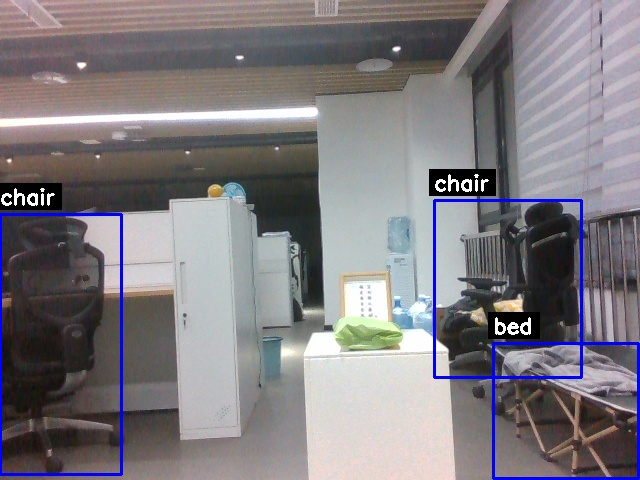
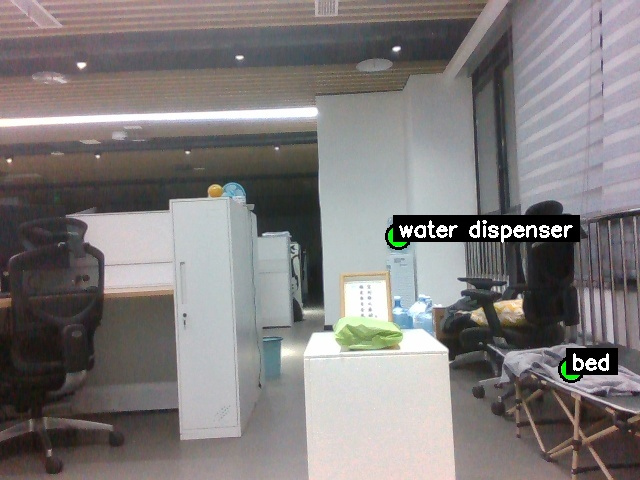
v0.3 自然语言控制指令解析

Changed region(s): [[0.5938, 0.3438, 1.0, 1.0], [0.0, 0.375, 0.2188, 1.0]]

diff --git a/lib/vlm.py b/lib/vlm.py
@@ -20,7 +20,7 @@ class ImageObjectDetector:
             model_id: 使用的模型ID
             api_key: API密钥
             base_url: API基础URL
-            detection_type: 检测类型，"point"或"box"，默认为"point"
+            detection_type: 检测类型，"point"、"box"、"flypoint"或"flybox"，默认为"point"
         """
         self.model_id = model_id
         self.detection_type = detection_type
@@ -46,11 +46,11 @@ class ImageObjectDetector:
     
     def create_prompt(self, objects_to_detect, prompt_type="point"):
         """
-        创建检测提示词
+        创建检测提示词prompt
         
         Args:
-            objects_to_detect: 要检测的对象列表
-            prompt_type: 提示词类型，"point"或"box"
+            objects_to_detect: 要检测的对象列表或控制指令
+            prompt_type: 提示词类型，"point"、"box"、"flypoint"或"flybox"
             
         Returns:
             格式化的提示词
@@ -63,7 +63,7 @@ class ImageObjectDetector:
               "label": <label1>}}, ...]. The points are in [y, x] format
               normalized to 0-1000.
             """
-        else:  # prompt_type == "box"
+        elif prompt_type == "box":
             return f"""
           Return bounding boxes as a JSON array with labels. Never return masks
           or code fencing. Limit to these objects: {objects_to_detect}. Include as many objects as you
@@ -74,15 +74,51 @@ class ImageObjectDetector:
           "label": <label for the object>}}] normalized to 0-1000. The values in
           box_2d must only be integers
           """
+        elif prompt_type == "flypoint":
+            return f"""
+              Analyze the drone control instruction: '{objects_to_detect}'
+              
+              1. Extract the target object mentioned in the instruction
+              2. Identify the specific object in the image if there are multiple similar objects
+                 (based on description like "on the left", "larger", etc.)
+              3. Point to the center of the target object in the image
+              
+              Return the answer as a JSON array with the following format:
+              [{{"point": [y, x], "label": "<target_object>"}}] where:
+              - point is in [y, x] format normalized to 0-1000
+              - label is the extracted target object name
+              
+              Never return any additional text, markdown formatting, or explanations.
+              Only return the JSON array as specified.
+            """
+        else:  # prompt_type == "flybox":
+            return f"""
+              Analyze the drone control instruction: '{objects_to_detect}'
+              
+              1. Extract the target object mentioned in the instruction
+              2. Identify the specific object in the image if there are multiple similar objects
+                 (based on description like "on the left", "larger", "blue", etc.)
+              3. Draw a bounding box around the entire target object
+              
+              Return the answer as a JSON array with the following format:
+              [{{"box_2d": [ymin, xmin, ymax, xmax], "label": "<target_object>"}}] where:
+              - box_2d is [ymin, xmin, ymax, xmax] format normalized to 0-1000
+              - All values in box_2d must be integers
+              - label is the extracted target object name
+              
+              Never return any additional text, markdown formatting, or explanations.
+              Only return the JSON array as specified.
+            """
     
-    def detect_objects(self, rgb_image, objects_to_detect, 
+    def detect_objects(self, rgb_image, control_instruction, 
                       temperature=0.5, jpeg_quality=60, verbose=True):
         """
-        检测图像中的对象
+        检测图像中的对象，支持从控制指令中提取目标
         
         Args:
             rgb_image: RGB格式的图像数据
-            objects_to_detect: 要检测的对象列表
+            control_instruction: 控制指令字符串（如"fly to the chair on the left"）
+                                或传统的对象名称列表
             temperature: 生成内容的温度参数
             jpeg_quality: JPEG编码质量
             verbose: 是否打印详细信息
@@ -98,7 +134,7 @@ class ImageObjectDetector:
         image_bytes = self.prepare_image(rgb_image, jpeg_quality)
         
         # 创建提示词，使用实例变量detection_type
-        prompt = self.create_prompt(objects_to_detect, self.detection_type)
+        prompt = self.create_prompt(control_instruction, self.detection_type)
         
         # 调用模型进行推理
         image_response = self.client.models.generate_content(
@@ -180,28 +216,45 @@ class ImageObjectDetector:
         
         return detections
 
-# # 使用示例
-# if __name__ == "__main__":
-#     # 导入日志读取模块
-#     from lib.logread import create_reader
+# 使用示例
+if __name__ == "__main__":
+    # 导入日志读取模块
+    from lib.logread import create_reader
     
-#     # 创建日志读取器
-#     reader = create_reader('./log')
+    # 创建日志读取器
+    reader = create_reader('./log')
     
-#     # 读取最新的日志数据
-#     latest_data = reader.read_latest_log()
+    # 读取最新的日志数据
+    latest_data = reader.read_latest_log()
     
-#     # 获取RGB图像
-#     rgb_image = latest_data['color_image']
+    # 获取RGB图像
+    rgb_image = latest_data['color_image']
     
-#     # 创建对象检测器
-#     detector = ImageObjectDetector()
+    # 创建无人机控制模式的对象检测器（使用flypoint类型）
+    drone_detector = ImageObjectDetector(detection_type="flypoint")
     
-#     # 检测对象（设置verbose=False避免重复打印）
-#     detections = detector.detect_objects(
-#         rgb_image=rgb_image,
-#         objects_to_detect=["Trash can","the chair on the right"],
-#         prompt_type="point",
-#         verbose=False
-#     )
-#     print(detections)
+    # 使用控制指令进行检测
+    detections = drone_detector.detect_objects(
+        rgb_image=rgb_image,
+        control_instruction="fly to the chair on the left",
+        verbose=True
+    )
+    print("无人机控制指令检测结果:", detections)
+    
+    # 也可以使用边界框检测
+    box_detector = ImageObjectDetector(detection_type="flybox")
+    box_detections = box_detector.detect_objects(
+        rgb_image=rgb_image,
+        control_instruction="Fly around the tree in circles",
+        verbose=True
+    )
+    print("无人机控制指令边界框检测结果:", box_detections)
+    
+    # 仍然支持传统的对象检测方式
+    traditional_detector = ImageObjectDetector(detection_type="point")
+    traditional_detections = traditional_detector.detect_objects(
+        rgb_image=rgb_image,
+        control_instruction="chair",  # 这里传入的是对象名称
+        verbose=False
+    )
+    print("传统对象检测结果:", traditional_detections)

diff --git a/planlog.py b/planlog.py
@@ -21,19 +21,19 @@ if __name__ == "__main__":
     # 获取深度数据
     dep_data = latest_data['depth_data']
     # 创建对象检测器，指定检测类型为box
-    detector = ImageObjectDetector(detection_type="box")
+    detector = ImageObjectDetector(detection_type="flypoint")
     start_time = time.time()
     # 检测对象（设置verbose=False避免重复打印）
     detections = detector.detect_objects(
         rgb_image=rgb_image,
-        objects_to_detect=["bed","chair"],
+        control_instruction=["fly to the water dispenser","fly to the bed"],
         verbose=False
     )
     print(f"推理时间: {time.time() - start_time:.2f} 秒")
     print(detections)
 
     # 使用便捷函数绘制并显示结果
-    draw_and_save(rgb_image, detections, detection_type="box", save_path="./detection_result.jpg")
+    draw_and_save(rgb_image, detections, detection_type=detector.detection_type, save_path="./detection_result.jpg")
 
     # 使用solve_utils中的函数计算所有检测对象的深度值
     depth_values = calculate_depth_from_detections(detections, dep_data)

diff --git a/lib/draw_utils.py b/lib/draw_utils.py
@@ -161,9 +161,9 @@ class DrawUtils:
         Returns:
             绘制后的图像
         """
-        if detection_type == "point":
+        if "point" in detection_type :
             return self.draw_point_detection(image, detections)
-        elif detection_type == "box":
+        elif "box" in detection_type :
             return self.draw_box_detection(image, detections)
         else:
             print(f"不支持的检测类型: {detection_type}")
